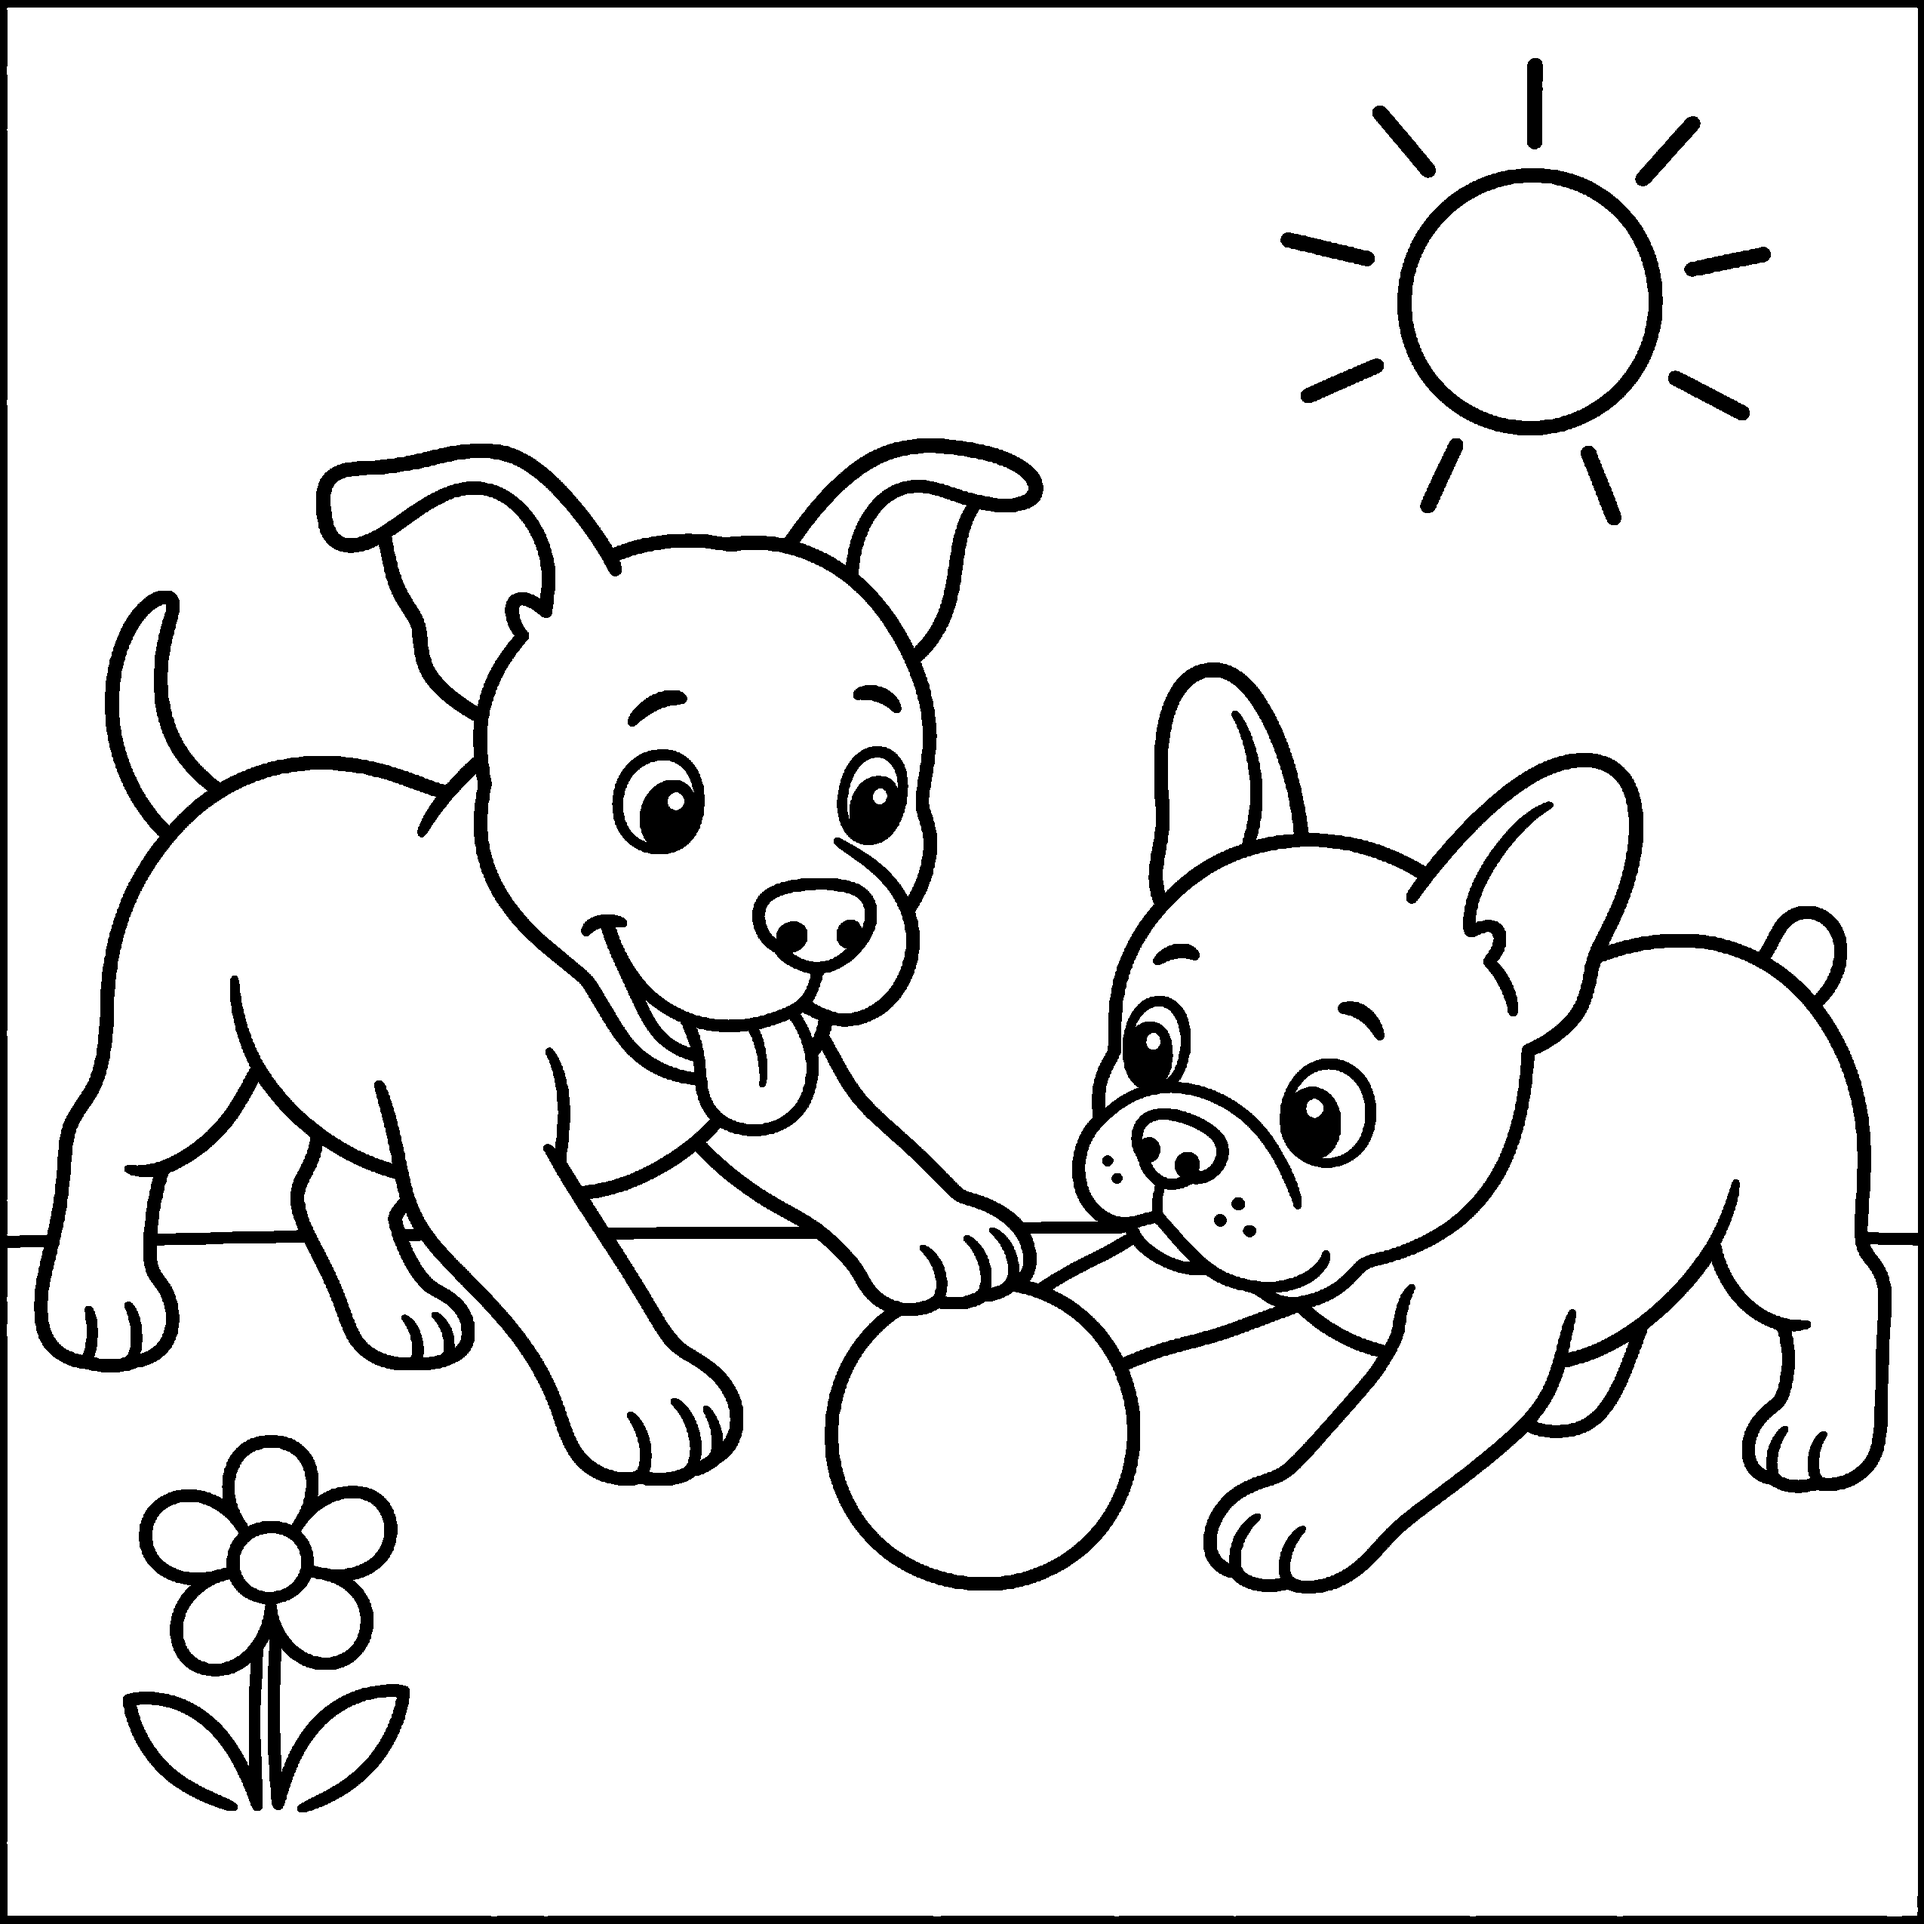
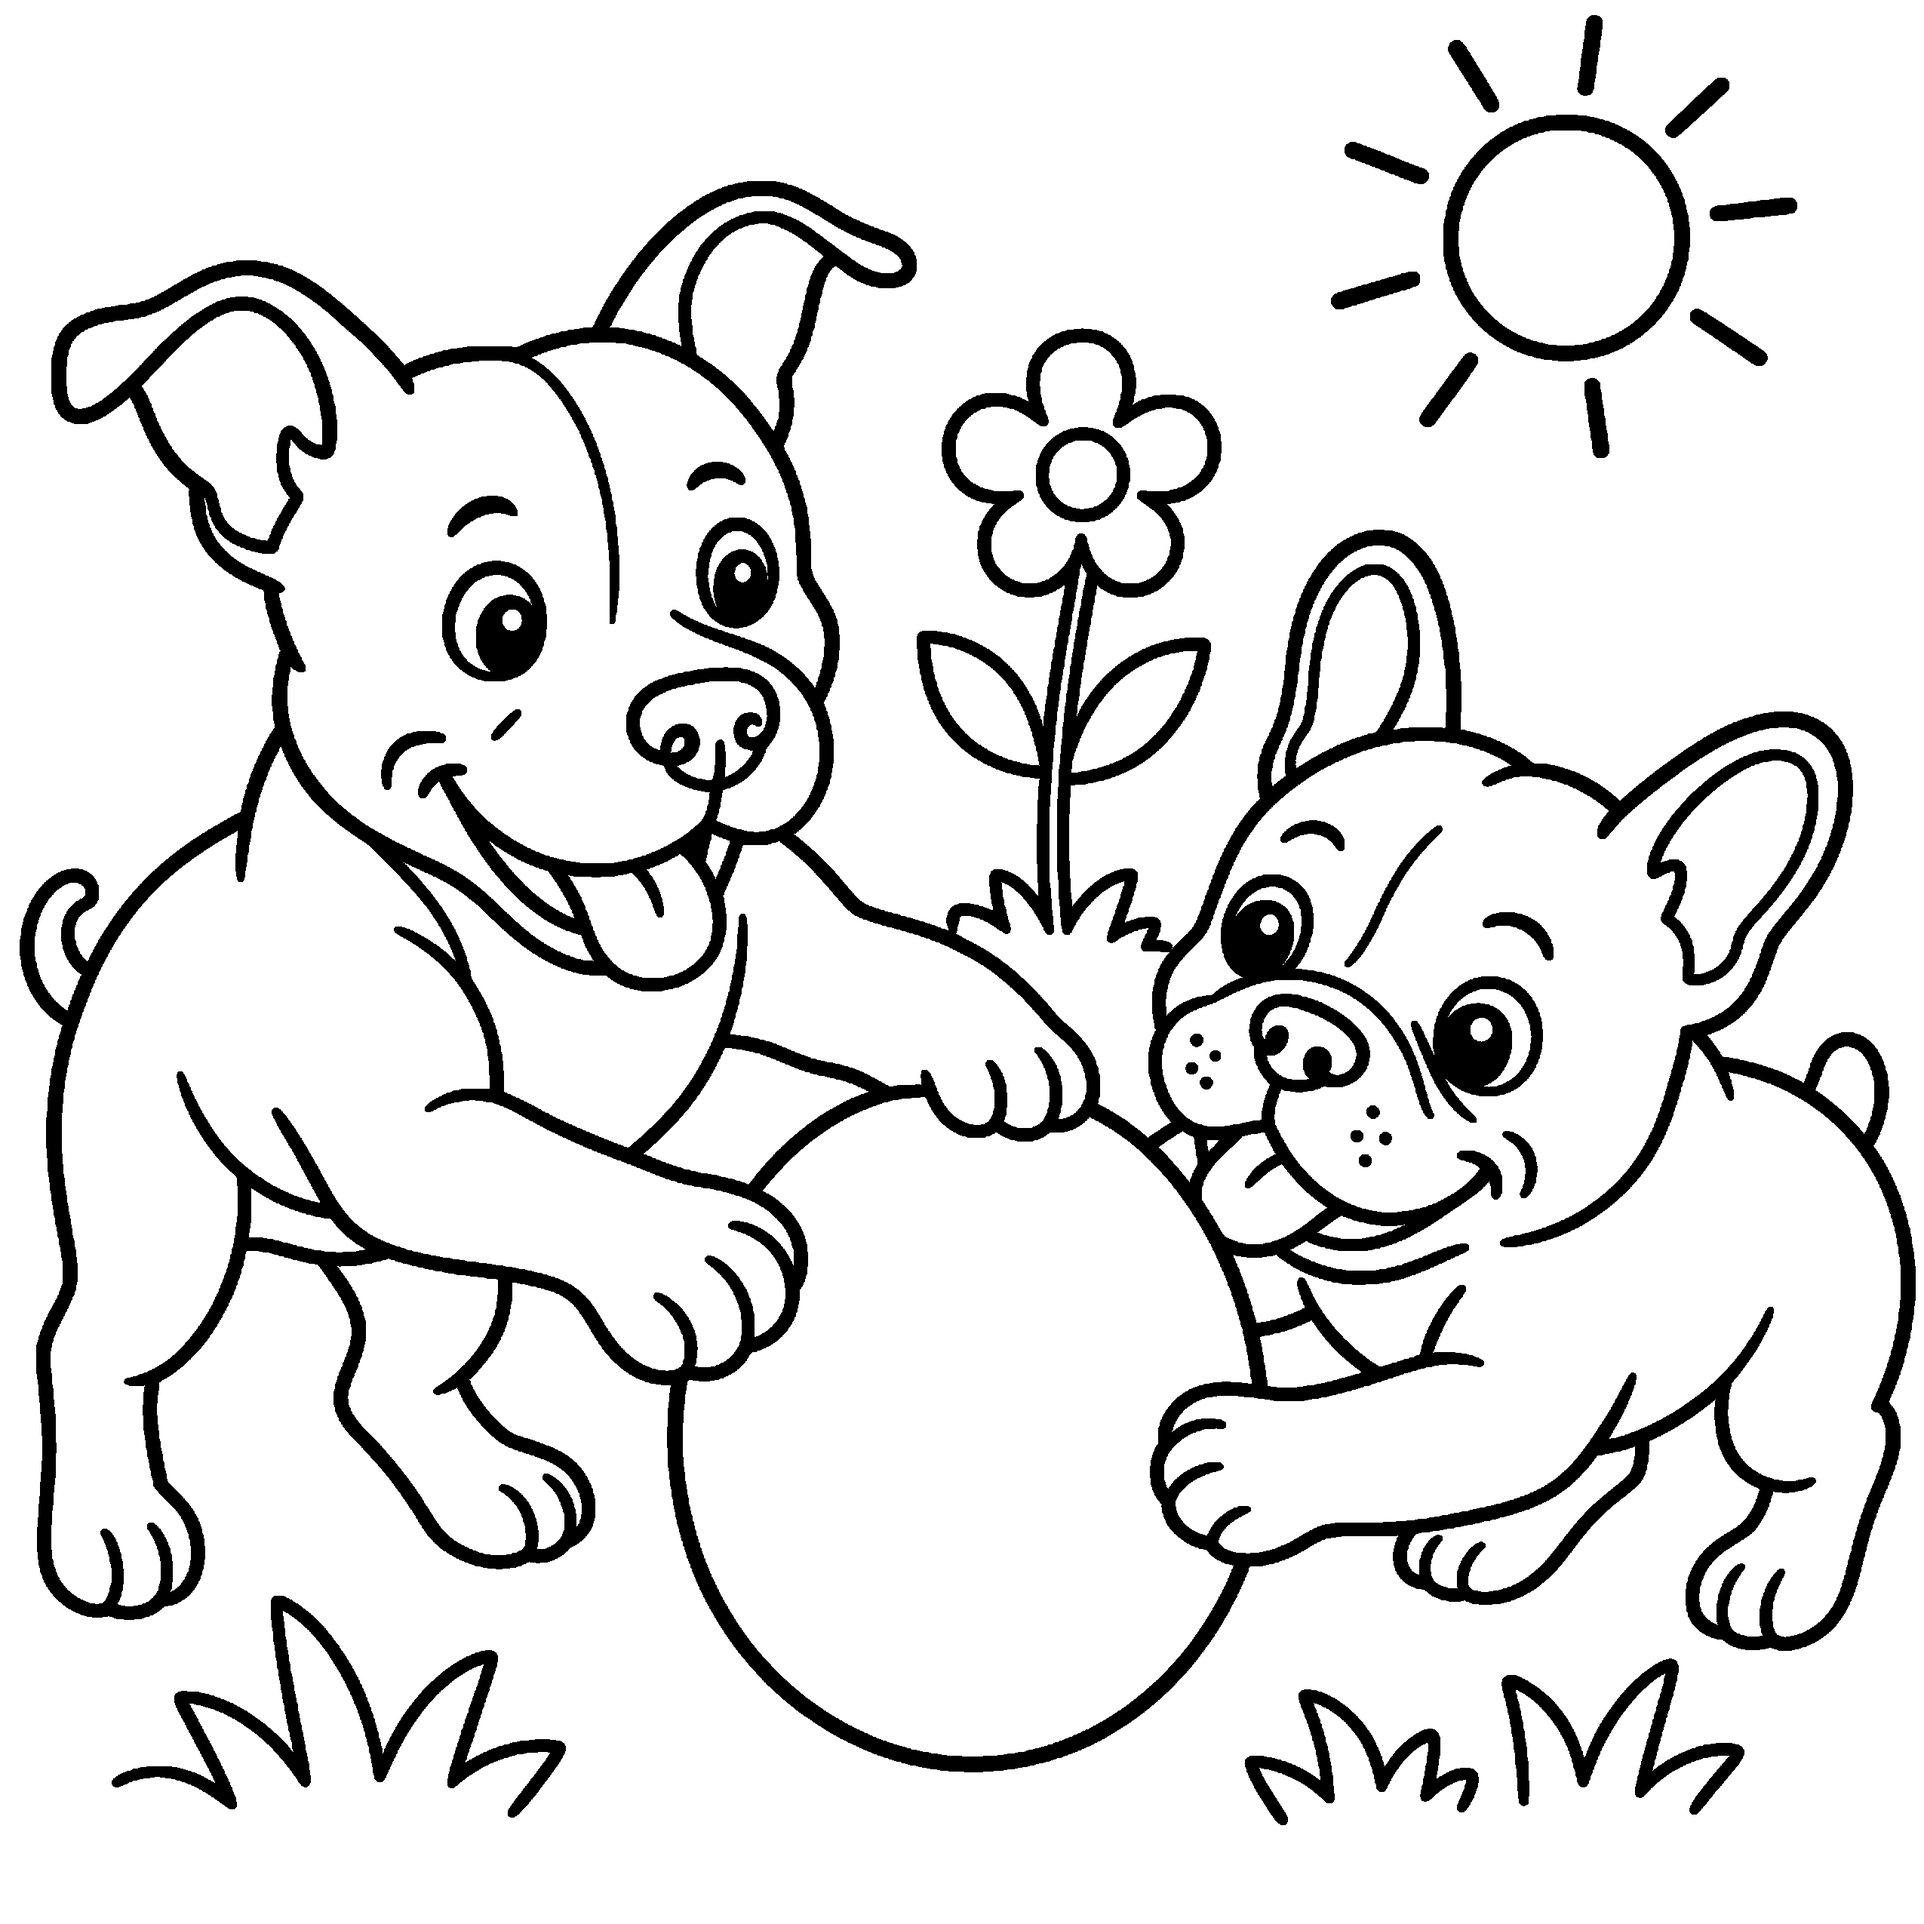
Expand book to 10 likeness-based pages from reference photos
Replace the short placeholder set with Etsy life-moment pages plus
friend scenes for Coco and Luna, rebuild the release package, and
update first-book tests for the 10-page cast.

diff --git a/tests/test_first_book.py b/tests/test_first_book.py
@@ -5,11 +5,24 @@ from factory.io import load_book
 
 BOOK = Path(__file__).resolve().parents[1] / "books" / "cozy-dogs-cats"
 
+EXPECTED_SCENES = [
+    "newborn-sleep",
+    "box-nest",
+    "bottle-time",
+    "bow-day",
+    "bed-cozy",
+    "garden-play",
+    "car-buddy",
+    "rainy-day",
+    "happy-smile",
+    "picnic",
+]
+
 
 def test_first_book_validates():
     book, characters = load_book(BOOK)
     assert book["book_id"] == "cozy-dogs-cats"
-    assert len(book["scenes"]) == 4
+    assert len(book["scenes"]) == 10
     assert {c["character_id"] for c in characters["characters"]} == {
         "etsy",
         "smoky",
@@ -21,9 +34,15 @@ def test_first_book_validates():
 
 def test_first_book_known_scene_ids():
     book, _ = load_book(BOOK)
-    assert [s["scene_id"] for s in sorted(book["scenes"], key=lambda s: s["page_number"])] == [
-        "bed-cozy",
-        "garden-play",
-        "picnic",
-        "rainy-day",
-    ]
+    assert [
+        s["scene_id"] for s in sorted(book["scenes"], key=lambda s: s["page_number"])
+    ] == EXPECTED_SCENES
+
+
+def test_approved_art_exists_for_every_scene():
+    book, _ = load_book(BOOK)
+    for scene in book["scenes"]:
+        rel = scene["artwork"]["approved_path"]
+        path = BOOK / rel
+        assert path.is_file(), path
+        assert scene["art_status"] == "approved"

diff --git a/books/cozy-dogs-cats/notes/README.md b/books/cozy-dogs-cats/notes/README.md
@@ -1,11 +1,11 @@
 # Notes — cozy-dogs-cats
 
-- Character visual references live in `artwork/source/references/` (46 photos).
-- Etsy and Coco likeness work used those refs; Luna is drawn as a simple
-  friendly black kitten from the product brief (no Luna photos yet).
-- Smoky and Fat Girl are still without reference photos and are **not**
-  featured on the current interior pages.
-- Interior art (v2) replaces placeholders: bed / garden / picnic / rainy-day.
-- Generated masters are preserved under
-  `artwork/source/generated_masters/` (additive; prior placeholders kept as `.bak`).
-- Layout trim remains provisional until a KDP format is confirmed.
+- 46 operator reference photos are in `artwork/source/references/`.
+- Art v3 expands the interior to **10 pages** drawn from those photos
+  (Etsy life moments) plus Coco/Luna friend scenes.
+- Prior art versions preserved under `artwork/source/archive_v2/` and
+  `generated_masters/`.
+- Smoky and Fat Girl remain in the roster; no separate confirmed photo
+  set was isolated for them in the batch (most images are Etsy’s growth
+  arc). Additional labeled refs can unlock dedicated pages.
+- KDP trim still provisional until format is confirmed.

diff --git a/books/cozy-dogs-cats/concepts/README.md b/books/cozy-dogs-cats/concepts/README.md
@@ -1,11 +1,17 @@
 # Concepts — cozy-dogs-cats
 
-Current interior pages (art v2):
+Ten interior pages built from the operator photo set (art v3):
 
-1. `bed-cozy` — Etsy + Luna sharing a bed
-2. `garden-play` — Etsy + Coco garden ball play
-3. `picnic` — Coco + Luna picnic
-4. `rainy-day` — Etsy rainy-day indoor rest
+1. `newborn-sleep` — baby Etsy nap
+2. `box-nest` — Etsy in box nest
+3. `bottle-time` — bottle feeding
+4. `bow-day` — puppy bows
+5. `bed-cozy` — Etsy + Luna
+6. `garden-play` — Etsy + Coco
+7. `car-buddy` — Etsy in the car
+8. `rainy-day` — rainy nap
+9. `happy-smile` — Etsy smile + toys
+10. `picnic` — Coco + Luna
 
-Smoky and Fat Girl remain in the character roster but are not on
-these pages until reference photos arrive.
+Roster still includes Smoky and Fat Girl; pages use characters
+visible/usable from the current reference batch and brief.
